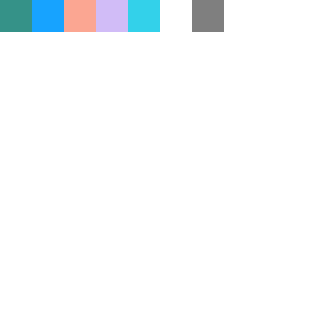
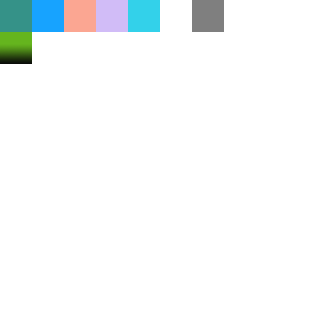
Added park bushes and added it's color to parkstuff png and psd

Changed region(s): [[0.0, 0.0938, 0.125, 0.2188]]

diff --git a/Blender_elements/World/Park/Park.md b/Blender_elements/World/Park/Park.md
@@ -2,3 +2,4 @@ Place all the park related stuff into this.
 
 Below is the order in which the colors are placed in UV atlas PNG:
 1st line - Park bench colors
+2nd line - Leaves, bushes colors
